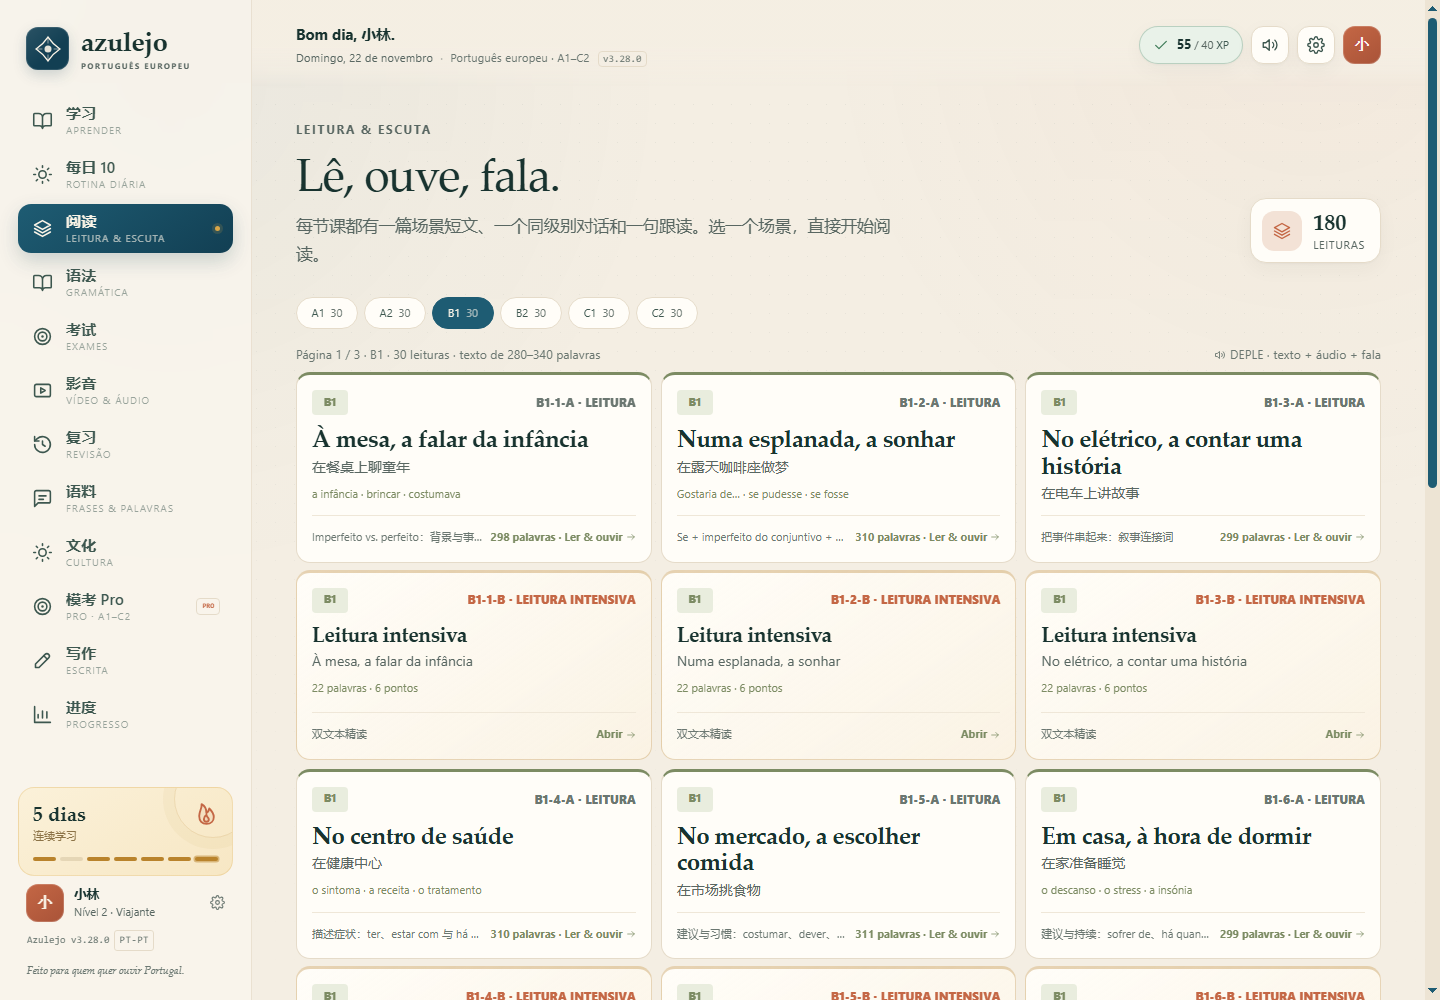
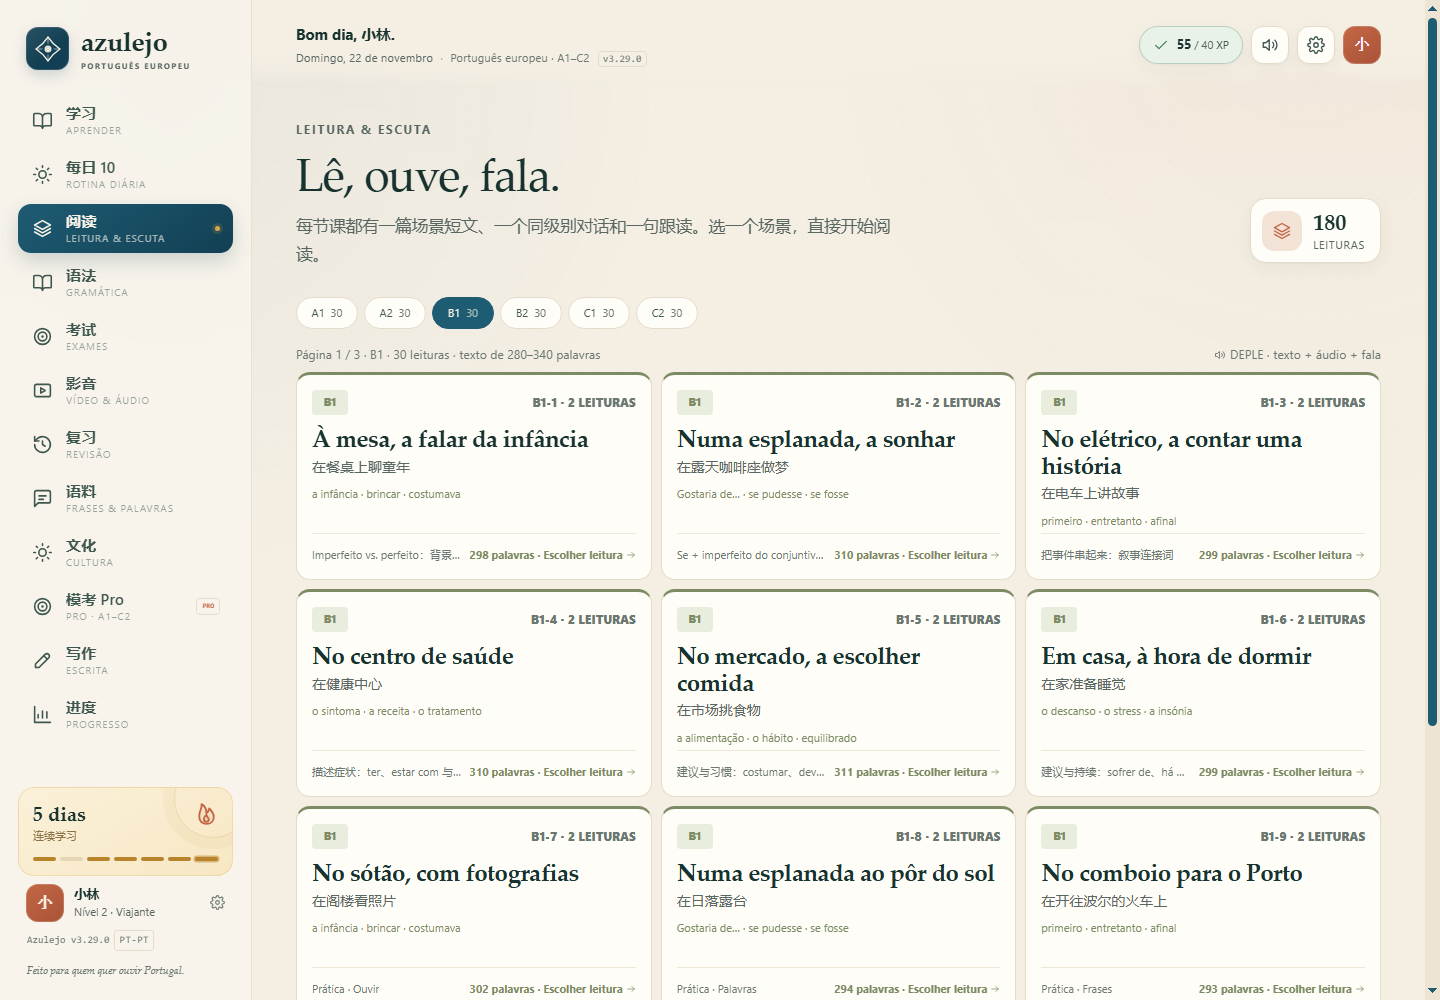
Group each lesson readings behind a chooser

diff --git a/js/app.js b/js/app.js
@@ -25,7 +25,7 @@
   const RESOURCES = window.AZ_RESOURCES || [];
   const STORAGE_KEY = 'azulejo.state.v1';
   const VERSION_KEY = 'azulejo.version.seen';
-  const APP_VERSION = '3.28.0';
+  const APP_VERSION = '3.29.0';
   const XP_PER_LEVEL = 120;
   const LEVEL_TITLES = ['Curioso', 'Viajante', 'Conversador', 'Lisboeta', 'Contador de histórias', 'Alma portuguesa'];
 
@@ -919,7 +919,7 @@
     }
     document.body.classList.toggle('focus-mode', focus);
     closeModal(true);
-    ui.route = name === 'lesson' ? 'learn' : (directReading || name === 'intensive' || name === 'intensive-unit' || name === 'intensive-pair') ? 'reading' : (listeningPlayer || dubbingPlayer) ? 'media' : (name === 'pro' || name === 'exam') ? 'pro' : name;
+    ui.route = name === 'lesson' ? 'learn' : (directReading || name === 'reading-choice' || name === 'intensive' || name === 'intensive-unit' || name === 'intensive-pair') ? 'reading' : (listeningPlayer || dubbingPlayer) ? 'media' : (name === 'pro' || name === 'exam') ? 'pro' : name;
     if (focus) {
       if (name === 'lesson' || directReading) {
         const lesson = lessonMap.get(info.parts[1]);
@@ -946,7 +946,7 @@
       location.hash = '#/media';
       return;
     }
-    if (!['learn', 'daily', 'reading', 'intensive', 'intensive-unit', 'intensive-pair', 'grammar', 'writing', 'exams-guide', 'themes', 'media', 'review', 'phrases', 'culture', 'pro', 'exam', 'legal', 'progress'].includes(name)) {
+    if (!['learn', 'daily', 'reading', 'reading-choice', 'intensive', 'intensive-unit', 'intensive-pair', 'grammar', 'writing', 'exams-guide', 'themes', 'media', 'review', 'phrases', 'culture', 'pro', 'exam', 'legal', 'progress'].includes(name)) {
       location.hash = '#/learn';
       return;
     }
@@ -957,6 +957,7 @@
     if (name === 'learn') renderHome();
     if (name === 'daily') renderDailyPage();
     if (name === 'reading') renderReadingPage();
+    if (name === 'reading-choice') renderReadingChoice(info.parts[1]);
     if (name === 'intensive') renderIntensiveArticle(info.parts[1]);
     if (name === 'intensive-unit') renderUnitIntensive(info.parts[1]);
     if (name === 'intensive-pair') renderPairedIntensive(info.parts[1]);
@@ -2917,26 +2918,16 @@
     const words = lesson.vocab.slice(0, 3).map(word => word.pt).join(' · ');
     const exam = window.AZ_READINGS && window.AZ_READINGS[lesson.id];
     const count = exam ? exam.text.trim().split(/\s+/).filter(Boolean).length : 0;
-    const paired = ['B1', 'B2', 'C1', 'C2'].includes(level);
     const lessonIndex = lessonsForLevel(level).findIndex(item => item.id === lesson.id) + 1;
     const code = `${level}-${lessonIndex}`;
-    const pair = paired ? pairedIntensiveFor(lesson.id) : null;
-    const aCard = `<a class="reading-card reading-${level}" href="#/read/${lesson.id}" aria-label="Ler e ouvir: ${esc(lesson.title)}">
-      <div class="reading-card-top"><span class="reading-card-level">${level}</span><span class="reading-card-kind">${paired ? `${code}-A · ${lesson.isLab ? 'PRÁTICA' : 'LEITURA'}` : (lesson.isLab ? 'PRÁTICA' : 'LIÇÃO')}</span></div>
+    const paired = ['B1', 'B2', 'C1', 'C2'].includes(level);
+    return `<a class="reading-card reading-${level}" href="#/reading-choice/${lesson.id}" aria-label="Abrir leituras: ${esc(lesson.title)}">
+      <div class="reading-card-top"><span class="reading-card-level">${level}</span><span class="reading-card-kind">${code} · ${paired ? '2 LEITURAS' : 'LEITURA'}</span></div>
       <h3>${esc(lesson.title)}</h3>
       <p>${esc(lesson.zh)}</p>
       <div class="reading-card-words">${esc(words)}</div>
-      <div class="reading-card-foot"><span>${esc(grammar)}</span><b>${count ? `${count} palavras · ` : ''}Ler & ouvir ${icon('arrow-right')}</b></div>
+      <div class="reading-card-foot"><span>${esc(grammar)}</span><b>${count ? `${count} palavras · ` : ''}Escolher leitura ${icon('arrow-right')}</b></div>
     </a>`;
-    if (!paired || !pair) return `<div class="reading-pair">${aCard}</div>`;
-    const bCard = `<a class="reading-card reading-pair-b reading-${level}" href="#/intensive-pair/${lesson.id}" aria-label="Leitura intensiva: ${esc(lesson.title)}">
-      <div class="reading-card-top"><span class="reading-card-level">${level}</span><span class="reading-card-kind">${code}-B · LEITURA INTENSIVA</span></div>
-      <h3>Leitura intensiva</h3>
-      <p>${esc(lesson.title)}</p>
-      <div class="reading-card-words">${esc(pair.vocab.length)} palavras · ${esc(pair.grammar.length)} pontos</div>
-      <div class="reading-card-foot"><span>双文本精读</span><b>Abrir ${icon('arrow-right')}</b></div>
-    </a>`;
-    return `<div class="reading-pair">${aCard}${bCard}</div>`;
   }
 
   function grammarChapters() {
@@ -3482,6 +3473,42 @@
     const article = pairedIntensiveFor(lessonId);
     if (!article) { location.hash = '#/reading'; return; }
     renderIntensiveView(article);
+  }
+
+  function renderReadingChoice(lessonId) {
+    const lesson = lessonMap.get(lessonId);
+    if (!lesson) { location.hash = '#/reading'; return; }
+    const level = lesson.unit.level;
+    const index = lessonsForLevel(level).findIndex(item => item.id === lesson.id) + 1;
+    const code = `${level}-${index}`;
+    const pair = pairedIntensiveFor(lesson.id);
+    const exam = window.AZ_READINGS && window.AZ_READINGS[lesson.id];
+    const count = exam ? exam.text.trim().split(/\s+/).filter(Boolean).length : 0;
+    const grammar = lesson.grammar ? lesson.grammar.title : `Prática · ${lesson.focusTitle || 'revisão'}`;
+    $('#view').innerHTML = `
+      <div class="page reading-choice-page">
+        <a class="back-link" href="#/reading">${icon('arrow-left')} Voltar às leituras</a>
+        ${pageHead('ESCOLHE A LEITURA', lesson.title, `${lesson.zh} · ${code} · ${grammar}`, `<div class="head-badge alt">${icon('layers')}<span><strong>${pair ? '2' : '1'}</strong><small>textos</small></span></div>`)}
+        <div class="reading-choice-grid">
+          <a class="reading-choice-card" href="#/read/${lesson.id}">
+            <span class="reading-choice-code">${code}-A</span>
+            <span class="reading-choice-type">LEITURA · 泛读</span>
+            <h2>${esc(lesson.title)}</h2>
+            <p>${esc(lesson.zh)}</p>
+            <div class="reading-choice-meta"><span>${count} palavras</span><span>${esc(grammar)}</span></div>
+            <b>Ler & ouvir ${icon('arrow-right')}</b>
+          </a>
+          ${pair ? `<a class="reading-choice-card is-intensive" href="#/intensive-pair/${lesson.id}">
+            <span class="reading-choice-code">${code}-B</span>
+            <span class="reading-choice-type">LEITURA INTENSIVA · 精读</span>
+            <h2>Leitura intensiva</h2>
+            <p>${esc(lesson.title)} + texto relacionado</p>
+            <div class="reading-choice-meta"><span>${pair.vocab.length} palavras</span><span>${pair.grammar.length} pontos</span></div>
+            <b>Abrir dossiê ${icon('arrow-right')}</b>
+          </a>` : `<div class="reading-choice-empty">A1/A2 目前只有泛读；B1 起提供 A/B 两篇。</div>`}
+        </div>
+      </div>`;
+    document.title = `${code} · Escolher leitura · Azulejo`;
   }
 
   function renderReadingPage() {

diff --git a/css/styles.css b/css/styles.css
@@ -4533,3 +4533,18 @@ body { font-size: 18px; font-family: "Segoe UI", "Microsoft YaHei", "PingFang SC
 .exam-card-top, .exam-card small, .syllabus-tags a, .exam-footnote { font-size: 10px; }
 .pro-price-sub, .pro-contact, .pro-license-msg, .pro-faq summary { font-size: 12px; }
 .settings-version, .field-hint, .settings-modal label, .settings-modal .field-hint { font-size: 12px; }
+/* Per-lesson reading chooser */
+.reading-choice-page { max-width: 1000px; }
+.reading-choice-grid { display: grid; grid-template-columns: repeat(2,minmax(0,1fr)); gap: 14px; margin-top: 16px; }
+.reading-choice-card { display: flex; flex-direction: column; gap: 7px; padding: 18px; border: 1px solid var(--line); border-radius: 12px; background: var(--surface); color: var(--ink); text-decoration: none; }
+.reading-choice-card.is-intensive { background: linear-gradient(145deg, var(--surface), rgba(252,244,228,.8)); border-color: rgba(185,138,62,.4); }
+.reading-choice-code { display: inline-flex; align-self: flex-start; padding: 3px 7px; border-radius: 4px; background: var(--teal-soft); color: var(--teal); font-family: var(--font-mono); font-size: 11px; font-weight: 800; }
+.reading-choice-card.is-intensive .reading-choice-code { background: var(--gold-soft); color: var(--terra); }
+.reading-choice-type { font-size: 11px; font-weight: 750; letter-spacing: .05em; color: var(--muted); }
+.reading-choice-card h2 { margin-top: 3px; font-family: var(--font-display); font-size: 32px; font-weight: 500; line-height: 1.1; }
+.reading-choice-card p { font-size: 13.5px; line-height: 1.6; color: var(--muted); }
+.reading-choice-meta { display: flex; flex-wrap: wrap; gap: 6px; }
+.reading-choice-meta span { padding: 3px 6px; border-radius: 4px; background: var(--surface-2); font-size: 10.5px; color: var(--muted); }
+.reading-choice-card > b { display: inline-flex; align-items: center; gap: 4px; margin-top: auto; padding-top: 10px; border-top: 1px solid var(--line-soft); font-size: 11px; color: var(--teal); }
+.reading-choice-empty { grid-column: 1 / -1; padding: 16px; border: 1px dashed var(--line); border-radius: 9px; font-size: 12px; color: var(--muted); }
+@media (max-width: 700px) { .reading-choice-grid { grid-template-columns: 1fr; } .reading-choice-card h2 { font-size: 27px; } }

diff --git a/index.html b/index.html
@@ -4,7 +4,7 @@
   <meta charset="utf-8">
   <meta name="viewport" content="width=device-width, initial-scale=1, viewport-fit=cover">
   <meta name="theme-color" content="#123f53">
-  <meta name="app-version" content="3.28.0">
+  <meta name="app-version" content="3.29.0">
   <meta name="description" content="Azulejo — 从 A1 到 C2 的欧洲葡萄牙语（pt-PT）学习应用：每级 30 节课，共 180 节；12 个情景视频与音频对话、210 个中英葡法西五语词汇、间隔复习与文化阅读。">
   <title>Azulejo · Aprender português europeu</title>
   <link rel="manifest" href="manifest.webmanifest">

diff --git a/sw.js b/sw.js
@@ -1,5 +1,5 @@
 /* Azulejo service worker — offline-first after the first visit. */
-const CACHE = 'azulejo-v3.28.0';
+const CACHE = 'azulejo-v3.29.0';
 const CORE = [
   './',
   './index.html',

diff --git a/README.md b/README.md
@@ -62,7 +62,7 @@ PT-PT 外部资源入口：
 - **独立语法库（句法 + 词法）+ 课文内讲解 + 每课练习 + 记忆钩子**：56 个语法章节，A1–C2 筛选、句法/词法切换、搜索、葡语例句配中文、英文解释、章节练习和上下章导航。词法覆盖名词、冠词、形容词、副词、动词变位组、时态体、代词、介词、连词、数量词、指小词、构词法、话语小词和复合词；每篇阅读后有「Gramática no texto」并链接对应章节，语法页另配 12 条记忆法。
 - **Escrita 写作（在模考 Pro 下面）**：A1–C2 每级 50 道原创写作题（共 300 题），随机抽题，支持粘贴或上传 `.txt`，本地四维评分，配置 `writingApiUrl` 后可接 AI 评分。侧栏入口在「模考 Pro」之后，Pro 页模拟卷下方也有写作入口。
 - **考试与大纲**：CAPLE A1–C2 考试介绍、CL/PIE/CO/PIO 四项构成，按级别把功能大纲和 56 个语法章节对应起来。
-- **B1–C2 每课双阅读**：编号按 **级别-课号-A/B**，例如 B1-1-A、B1-1-B、B1-2-A、B1-2-B，一直到 C2。A 是本课泛读，B 是本课 + 同级别关联文本的双文本精读，配 22 个本级词、6 个语法点和理解题。
+- **B1–C2 每课双阅读**：阅读列表每课只有一个小标签（如 B1-1），点进去再选 **B1-1-A 泛读** 或 **B1-1-B 精读**；A 是本课阅读，B 是本课 + 同级别关联文本的双文本精读，配 22 个本级词、6 个语法点和理解题。
 - **每日 10 分钟（Rotina diária）**：5 个词 + 1 个语法点 + **一整段视频场景逐句跟读评分**（按视频原长度，不是固定一句）+ 2 道题 + 7 天进度报告；完成得 XP，并接入复习队列。
 - **学习语言选择**：设置里可选中文 / English / Français / Español / Português；导航、按钮、筛选标签切换语言，词汇表高亮所选语言列，英语模式下语法讲解优先显示英文，暂缺翻译回退中文/English。
 - **语料 → 主题词与形容词**：10 个配图场景（咖啡馆、市场、交通、住房、健康、工作、学校、旅行、城市、文化）PT/ZH/EN/FR/ES 对照；形容词按性质、大小、颜色、情绪、状态、国籍分类。入口在「语料」的词汇标签内，不再占用侧栏。
@@ -87,7 +87,8 @@ PT-PT 外部资源入口：
 | ![语法库](screenshots/grammar-library.png) | ![语法章节](screenshots/grammar-chapter.png) |
 |---|---|
 | ![词法章节](screenshots/grammar-morphology.png) | ![分层价格](screenshots/pro.png) |
-| ![B1-1-A / B1-1-B 阅读对](screenshots/reading-b1-ab.png) | ![B1-2-B 双文本精读](screenshots/b1-2-intensive.png) |
+| ![每课一个阅读标签](screenshots/reading-b1-ab.png) | ![点进去选择 A/B](screenshots/reading-choice.png) |
+| ![B1-2-B 双文本精读](screenshots/b1-2-intensive.png) | ![B1 长篇精读](screenshots/intensive.png) |
 | ![B1 长篇精读](screenshots/intensive.png) | ![词汇分页](screenshots/lexicon.png) |
 | ![听力进度条](screenshots/listening-progress.png) | ![每日 10 分钟](screenshots/daily.png) |
 | ![整段视频跟读](screenshots/daily-video.png) | ![每日报告](screenshots/daily-report.png) |
@@ -168,7 +169,7 @@ Node.js 仅用于启动静态服务器，应用本身没有构建步骤、没有
 
 ## 版本号与更新提示
 
-当前版本：**v3.28.0**。
+当前版本：**v3.29.0**。
 
 - 顶栏、侧栏底部和「设置」里都会显示当前版本号。
 - 当本地记录的版本号与 `APP_VERSION` 不一致时，打开应用会弹出 `Azulejo atualizado para vX.Y.Z` 提示。

diff --git a/CHANGELOG.md b/CHANGELOG.md
@@ -1,5 +1,11 @@
 # Changelog
 
+## 3.29.0 — 2026-11-22
+
+- Changed B1–C2 reading lists back to **one card per lesson**, tagged e.g. `B1-1 · 2 LEITURAS`.
+- Clicking the lesson opens a chooser with `B1-1-A` (extensive) and `B1-1-B` (intensive).
+- Bumped the service worker cache to `azulejo-v3.29.0`.
+
 ## 3.28.0 — 2026-11-22
 
 - A second global readability pass: raised the minimum size of table headers, filter chips, level pills, eyebrow labels, card metadata, review/flashcard labels and settings hints.
